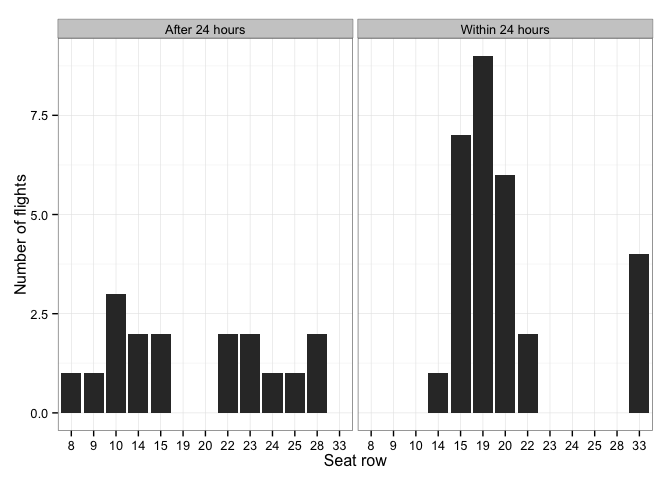
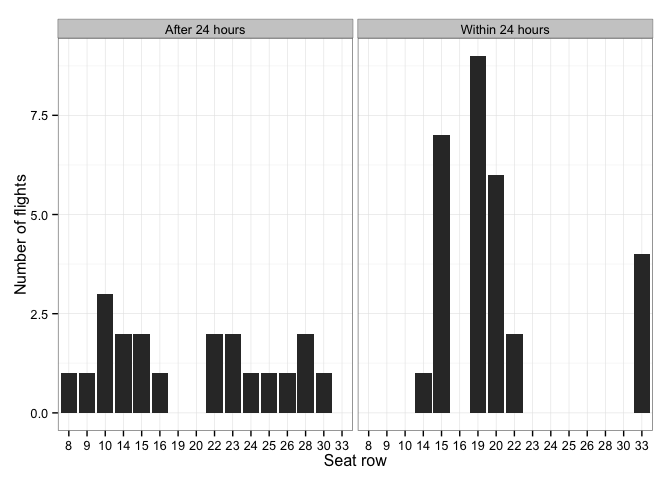
Add three more data points and reanalyse.

diff --git a/README.md b/README.md
@@ -11,7 +11,7 @@ Some time ago, I noticed that when I checked in early I was less likely to sit i
 
 |Check-in time   | Number of flights| Number of middle seats| Fraction|
 |:---------------|-----------------:|----------------------:|--------:|
-|After 24 hours  |                17|                      8|    0.471|
+|After 24 hours  |                20|                      9|    0.450|
 |Within 24 hours |                29|                      1|    0.034|
 So there you have it, if you don't want to sit in the middle then checking in early does indeed look very promising.
 
